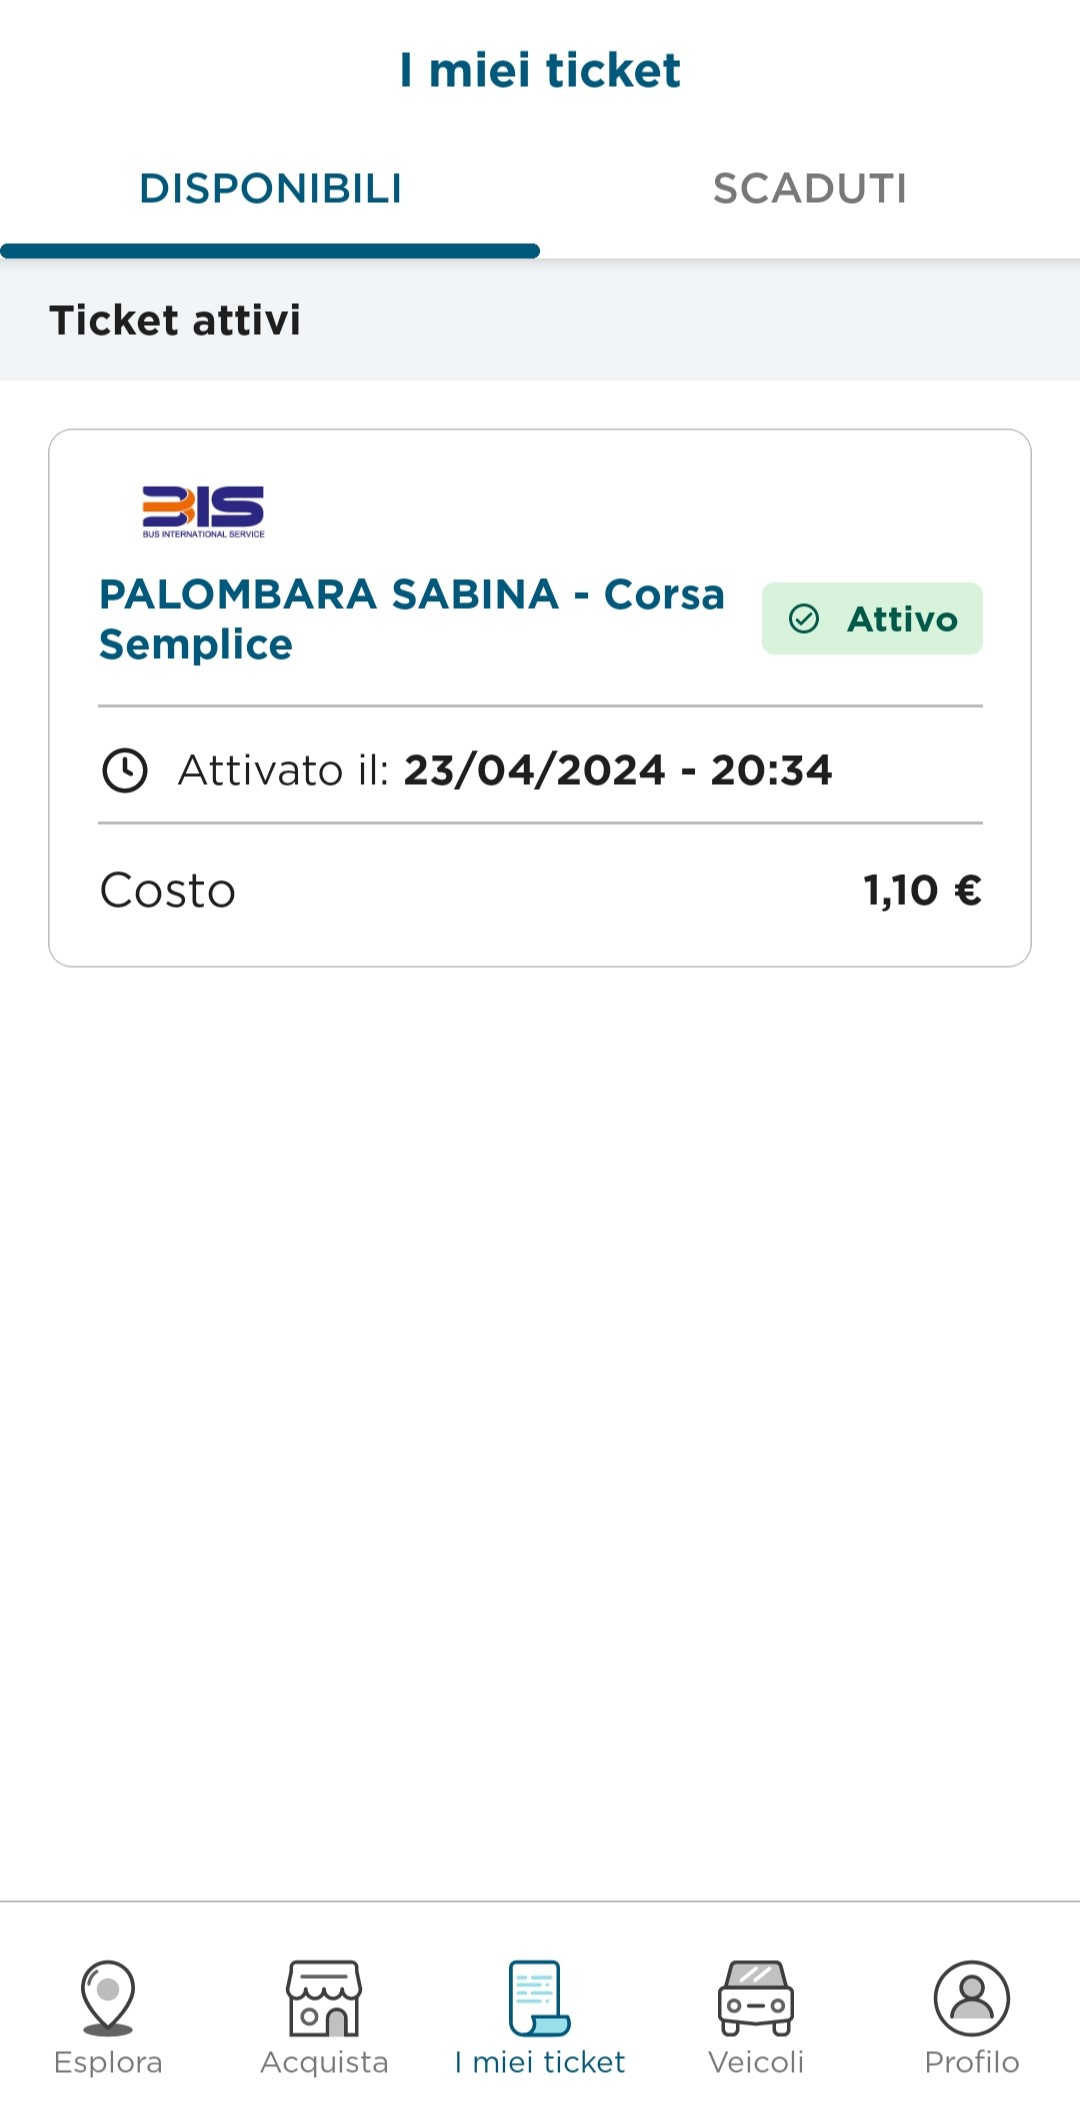
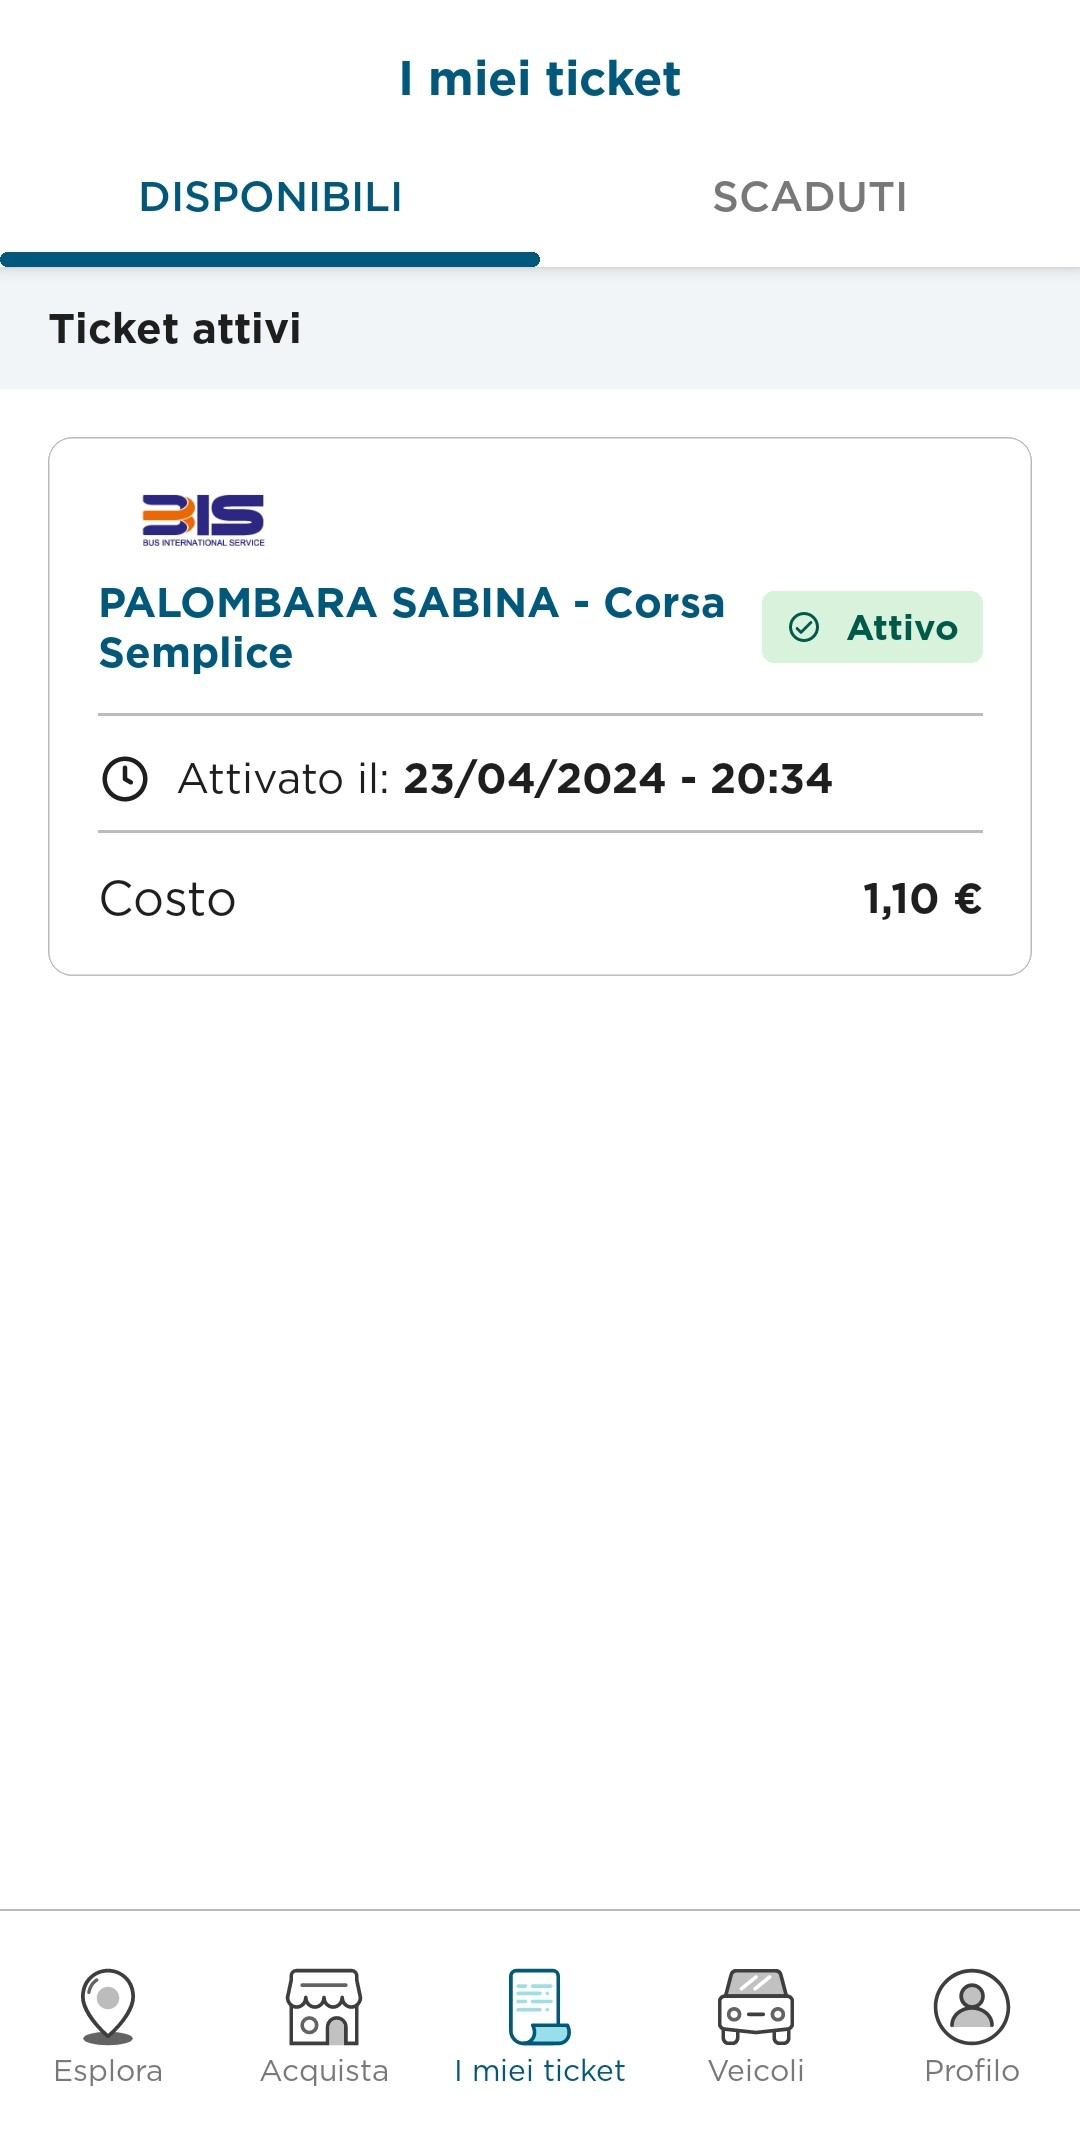
Updated files

diff --git a/script.js b/script.js
@@ -1,6 +1,6 @@
 
-// Wait for the document to be ready
-$(document).ready(function () {
+// Function used to show the dimensions of the screen, the window, and the document on the page at document load
+function showDimensions() {
 
 	// Add a div with, inside, the dimensions of the screen, the window, and the document
 	$('#main').append('<div id="dimensions" style="z-index: 10; font-size: 24px; color: #000000;"></div>');
@@ -21,6 +21,42 @@ $(document).ready(function () {
 	// Update the dimensions when the page is loaded
 	updateDimensions();
 
-	console.log('script.js loaded');
+}
+
+// Functoin to move to the "ticket" page
+function activateTicket() {
+
+	console.log("Ticket activated!");
+
+}
+
+// Wait for the document to be ready
+$(document).ready(function () {
+
+	// Call the function to show the screen, window, and document dimensions on the page
+	// showDimensions();
+
+	// Update the ticket's activation date overlay text
+	let activationDateElement = $("#activation-date");
+	// Get the date to display (current day, some minutes before the current time)
+	let minutesBefore = 14;
+	let dateToUse = new Date();
+	dateToUse.setMinutes(dateToUse.getMinutes() - minutesBefore);
+	// Format the date as "dd/mm/yyyy - hh:mm"
+	let dateText = dateToUse.getDate() + "/" + (dateToUse.getMonth() + 1) + "/" + dateToUse.getFullYear() + " - " + dateToUse.getHours() + ":" + dateToUse.getMinutes();
+	activationDateElement.text(dateText);
+
+	// Add click functions to the ticket button
+	let ticketClickOverlay = $("#ticket-button");
+	// On tap down, set the ticket overlay to have an opacity of 0.3
+	ticketClickOverlay.on("touchstart", function () {
+		ticketClickOverlay.css("opacity", "0.3");
+	});
+	// On tap up, set the ticket overlay to have an opacity of 0 and "activate" the ticket
+	ticketClickOverlay.on("touchend", function () {
+		ticketClickOverlay.css("opacity", "0");
+		activateTicket();
+	});
+
 
 });

diff --git a/style.css b/style.css
@@ -3,15 +3,62 @@
 	--main-color: #00587d;
 	--green-color: #00ff00;
 }
-html, body {
+* {
 	margin: 0;
 	padding: 0;
-	overflow: hidden;
 }
+html, body {
+	overflow: hidden;
+	font-family: 'Source Sans Pro', sans-serif, Arial;
+	font-size: 16px;
+	user-select: none;
+}
+/* Screenshot */
+.screenshots-container {
+	width: 100%;
+	height: 100%;
+	position: absolute;
+	top: 0;
+	left: 0;
+	opacity: 1;
+	z-index: -1;
+}
+.screenshots-container img {
+	width: 100%;
+	height: 100%;
+	object-fit: cover;
+}
+/* Main content container */
 #main {
 	display: inline-flex;
-	justify-content: center;
+	flex-direction: column;
+	justify-content: flex-start;
 	align-items: center;
 	width: 100vw;
 	height: 100vh;
+	position: relative;
+}
+/* Button mask */
+.button-mask {
+	/* width: 100%; */
+	width: 67%;
+	height: 4vh;
+	position: absolute;
+	top: 34.9vh;
+	background-color: #ffffff;
+	/* opacity: 0.5; */
+	font-size: 1.05em;
+}
+.button-mask #activation-date {
+	font-weight: bold;
+}
+#ticket-button {
+	width: 100%;
+	height: 28vh;
+	position: absolute;
+	top: 19vh;
+	background-color: #ffffff;
+	cursor: pointer;
+	opacity: 0;
+	user-select: none;
 }

diff --git a/index.html b/index.html
@@ -28,26 +28,20 @@
 </head>
 <body>
 
-	<!-- <div class="div1">
-		<div class="corner"></div>
-		<div class="corner"></div>
-		<div class="corner"></div>
-		<div class="corner"></div>
-		<div class="div2">
-			<div class="div3">
-				Prova
-			</div>
-		</div>
-	</div> -->
-
 	<div id="main">
 
 		<!-- Add the tickets.jpg image -->
 		<div class="screenshots-container">
-			<!-- <img src="./screenshots/tickets.jpg"> -->
+			<img src="./screenshots/tickets.jpg">
 		</div>
 
-	</div>
+		<!-- Overlay for the date of the ticket -->
+		<div class="button-mask">
+			<span>Attivato il:</span>
+			<span id="activation-date">???</span>
+		</div>
+		<!-- Click area for the button -->
+		<div id="ticket-button"></div>
 
 
 	<!-- Scripts -->
